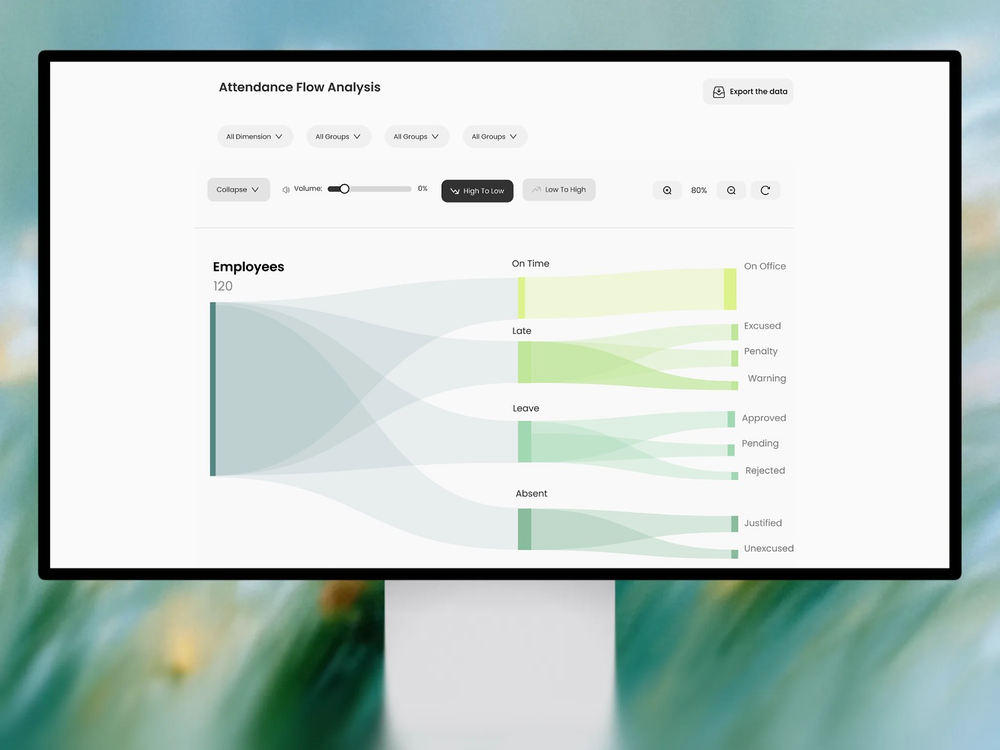
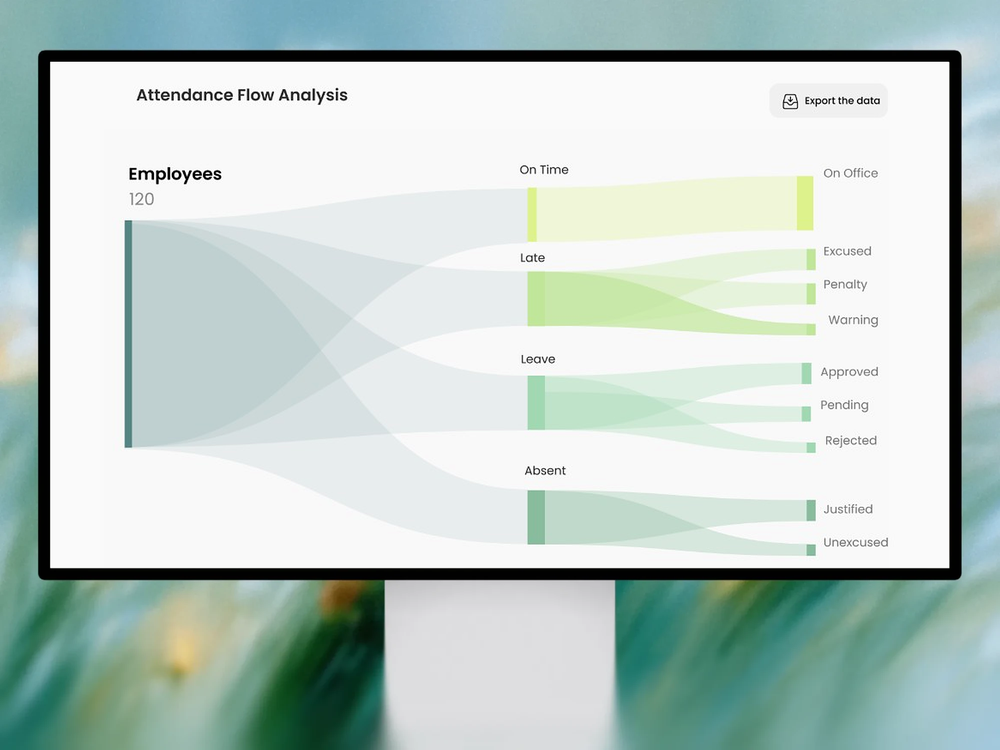
Attendees monitor: flow chart fills the screen (filter rows left out)
Claude-Session: https://claude.ai/code/session_01FdYAnoP1AuAPuCnLWf7gdc

diff --git a/behance-cover/mockups/set36.py b/behance-cover/mockups/set36.py
@@ -6,9 +6,12 @@ I = '/tmp/claude-0/-home-user-claude-Ai-website-1/fd49522e-f0ff-52ed-b6c7-08cca4
 L, T, R, B = 100.5, 123.5, 1897.5, 1135.5; TOP, BOT = 340, 1112   # from just above Attendance Flow Analysis down to the chart's end
 base = Image.open(I + '251.webp').convert('RGB'); page = Image.open(I + '252.jpg').convert('RGB')
 bg = page.getpixel((page.width // 2, page.height - 5)); asp = (R - L) / (B - T)
-h = BOT - TOP; w = round(h * asp); band = Image.new('RGB', (w, h), bg)
-X0 = 122   # sidebar left out so the chart sits centred on clean page colour
-sec = page.crop((X0, TOP, page.width, BOT)); band.paste(sec, ((w - sec.width) // 2, 0))
+# fill the screen: keep the title row and the whole chart, leave out the filter / control rows
+# between them (rows 418-600), so the section is almost exactly the screen's shape
+X0 = 112
+top_part = page.crop((X0, TOP, page.width, 418)); chart = page.crop((X0, 600, page.width, BOT))
+h = top_part.height + chart.height; w = round(h * asp); band = Image.new('RGB', (w, h), bg)
+ox = (w - top_part.width) // 2; band.paste(top_part, (ox, 0)); band.paste(chart, (ox, top_part.height))
 F = 2; W, H = 4000, 3000; out = base.resize((W, H), Image.LANCZOS)
 cw, ch = round((R - L) * F), round((B - T) * F); k = cw / w
 snap = band.resize((cw, ch), Image.LANCZOS).point(lambda v: round(255 * (v / 255) ** 1.08)).filter(ImageFilter.UnsharpMask(radius=0.7 * k, percent=70, threshold=2))
